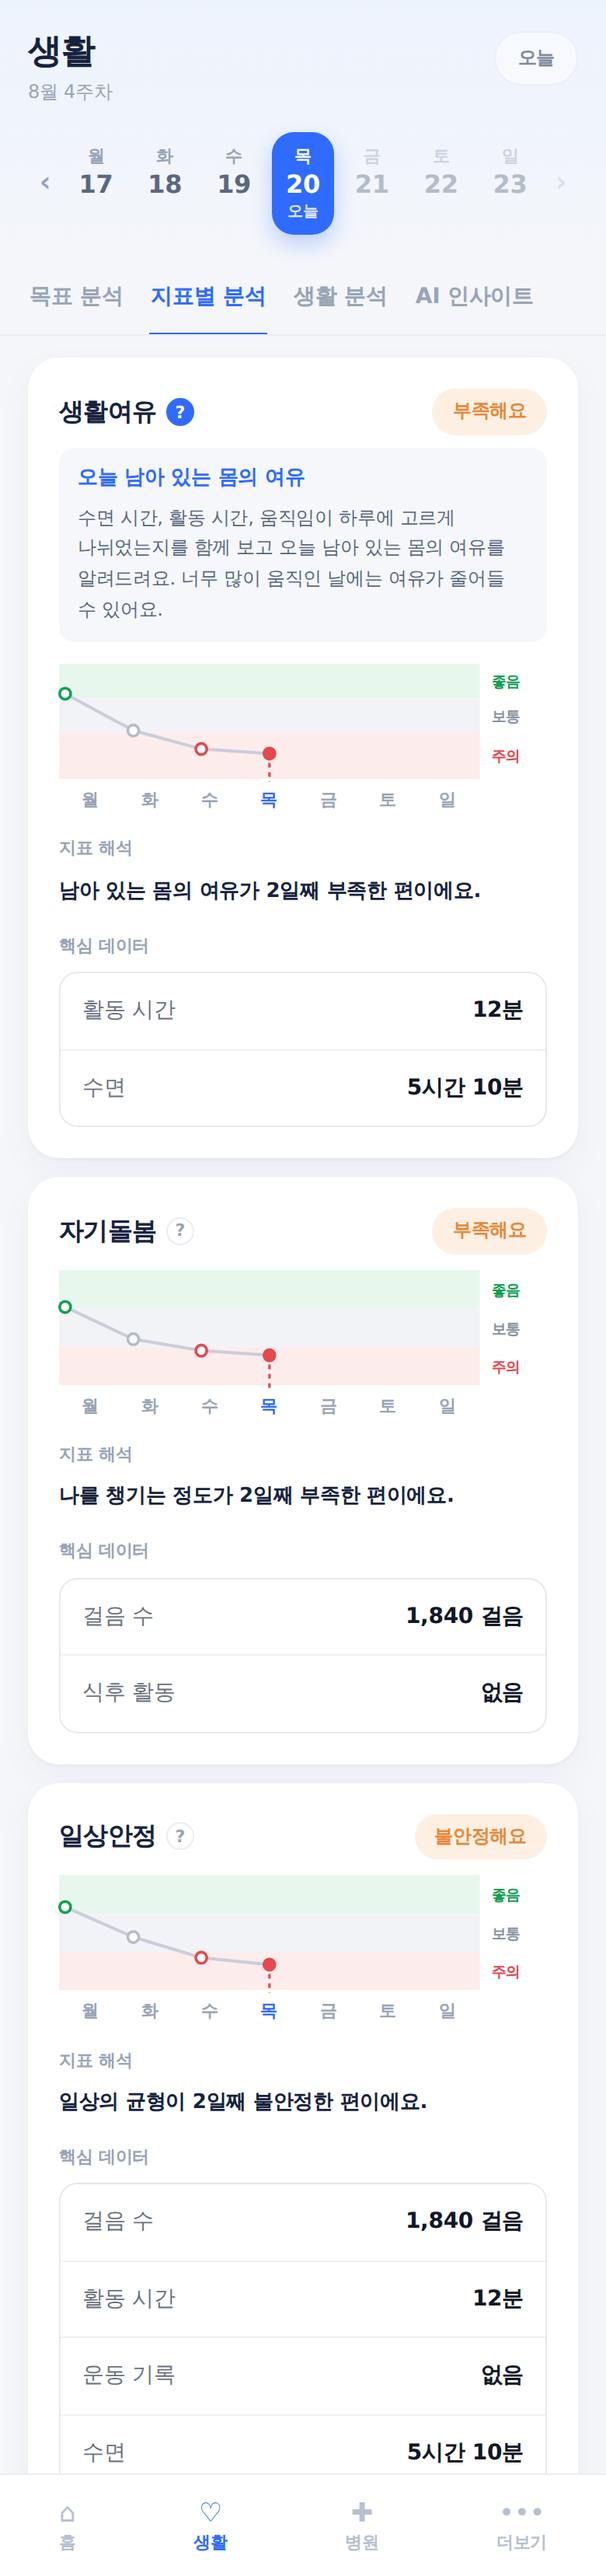
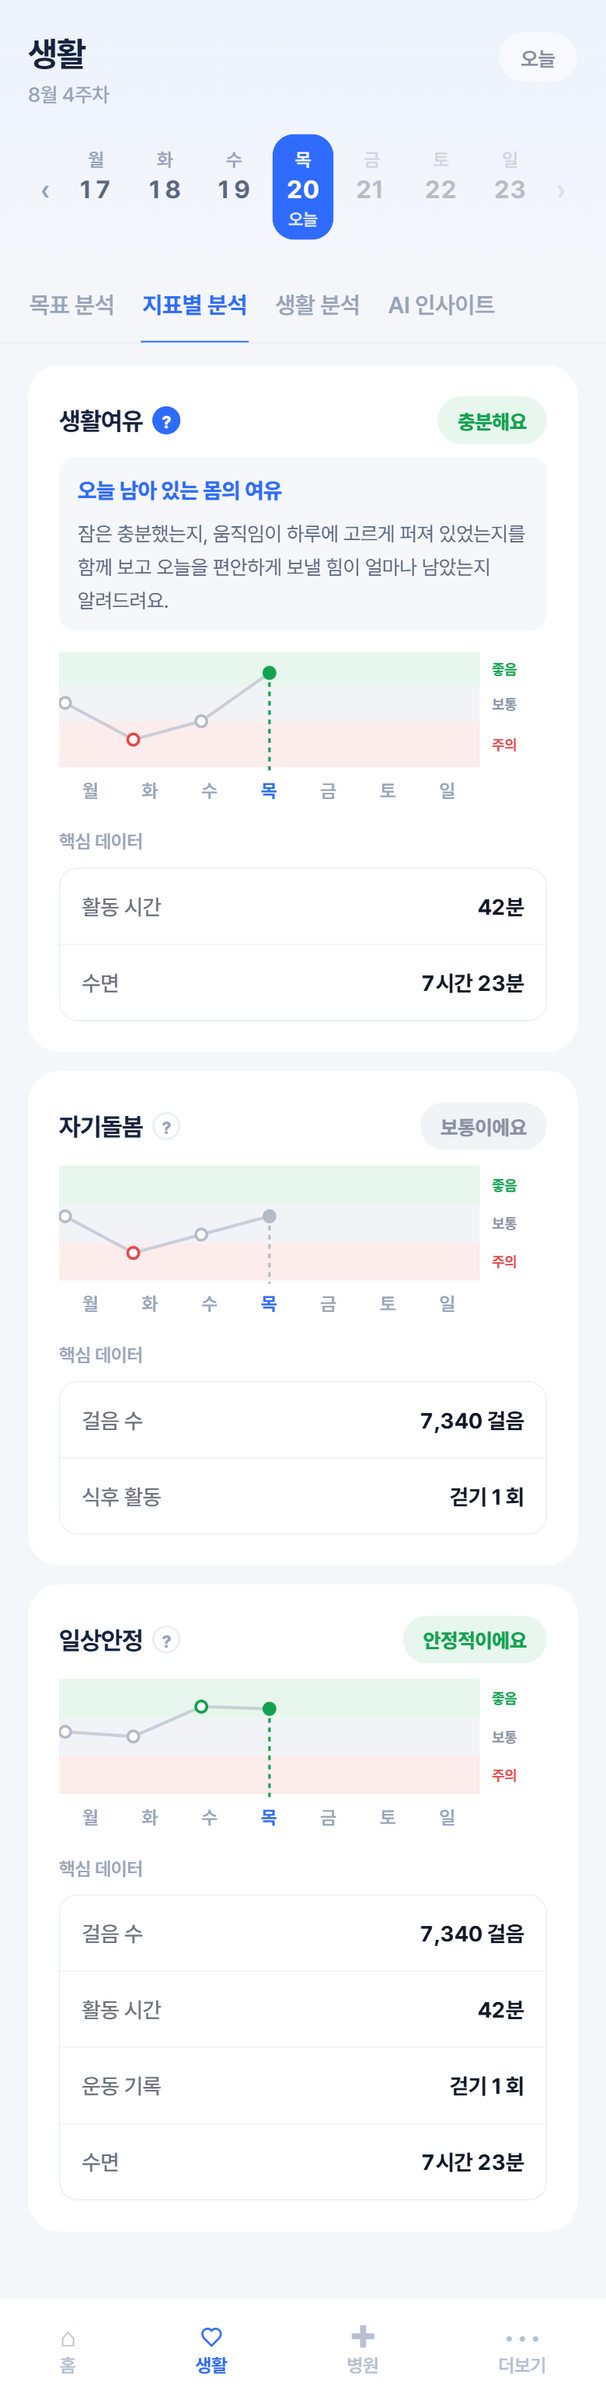
지표별 분석 화면설계서: 지표 해석 삭제, 예시 화면 재캡처, 해석 문장 규칙 메뉴 제거

diff --git a/wip-metric.html b/wip-metric.html
@@ -573,7 +573,7 @@ pre.json .k{color:#8AB4FF}pre.json .s{color:#FFD58A}pre.json .n{color:#9EF0C4}
 <div class="page">
   <div class="top">
     <h1>생활 탭 · 지표별 분석 화면 설계서</h1>
-    <p>세 지표의 주간 흐름 · 해석 · 핵심 데이터 화면의 동작과 표시 정보 · 왼쪽 캡처는 스크롤 가능 · 데이터는 가상</p>
+    <p>세 지표의 주간 흐름 · 핵심 데이터 화면의 동작과 표시 정보 · 왼쪽 캡처는 스크롤 가능 · 데이터는 가상</p>
   </div>
   <div class="controls">
     <div class="ctl" id="jump"></div>
@@ -596,7 +596,6 @@ const COMMON_INFO = [
   ["지표명","고정",["생활여유 · 자기돌봄 · 일상안정","3개 카드, 순서 고정"]],
   ["구간 배지","지표 구간 판정",["생활여유: 충분해요 · 보통이에요 · 부족해요","자기돌봄: 잘하고 있어요 · 보통이에요 · 부족해요","일상안정: 안정적이에요 · 비슷해요 · 불안정해요","색: 좋음 초록 · 보통 회색 · 주의 주황"]],
   ["주간 그래프","요일별 구간",["월~일 7칸, 미래 요일은 비움","배경 띠(y축): 좋음 · 보통 · 주의","요일 점: 그날 구간 색의 빈 원","선택한 날: 채운 원 + 세로 점선"]],
-  ["지표 해석","선택한 날 vs 전날",["한 문장","제목 ‘지표 해석’ 고정"]],
   ["핵심 데이터","건강 데이터 연동값",["생활여유: 활동 시간 · 수면","자기돌봄: 걸음 수 · 식후 활동","일상안정: 걸음 수 · 활동 시간 · 운동 기록 · 수면","선택한 날의 값","건강 앱 원본 값만 표시 (활동 분산 · 활동 부담 · 수면 규칙성 같은 계산 값은 표시하지 않음)"]]
 ];
 const SIDE = {
@@ -607,24 +606,15 @@ const SIDE = {
       ["진입 경로","생활 탭 → 상단 탭 ‘지표별 분석’"],
       ["날짜 선택",["날짜 띠(월~일)에서 고른 날 기준으로 세 카드 다시 표시","오늘 이후 날짜는 선택 불가","‘오늘’ 버튼으로 복귀"]],
       ["주 이동",["날짜 띠 좌우 화살표로 지난 주 이동","지난 주는 읽기 전용"]],
-      ["카드 구성","지표명 + ‘?’ → 배지 → 주간 그래프 → 지표 해석 → 핵심 데이터"],
+      ["카드 구성","지표명 + ‘?’ → 배지 → 주간 그래프 → 핵심 데이터"],
       ["#","구간"],
       ["점수 표시",["숫자 점수 · 전일 대비 방향 · y축 눈금 없음","구간 3단계로만 전달"]],
       ["구간 경계",["생활여유: 40 미만 주의 · 40 이상 ~ 70 미만 보통 · 70 이상 좋음","자기돌봄 · 일상안정: 33 미만 주의 · 33 이상 ~ 66 미만 보통 · 66 이상 좋음","반올림 전 점수로 판정 · 그래프 배경 띠도 같은 경계"]],
       ["주의 지속 ‘낮음’ 기준",["생활여유 · 자기돌봄: 재료 점수 0.4 미만 (0.40은 낮지 않음)","생활여유 활동 부담: 활동 시간 240분 초과","일상안정: 변화값 −0.2 미만","주의 기간 모든 날 낮음일 때만 이유로 씀"]],
-      ["배지 · 해석 역할",["배지 = 선택한 날의 상태 (좋음 · 보통 · 주의)","해석 문장 = 전날 대비 구간 변화 또는 연속 일수","예: 58점 → 62점(둘 다 보통) → 배지 보통 · ‘2일째 … 보통이에요’","예: 38점 → 42점(주의 → 보통) → 배지 보통 · ‘활동량이 늘어나면서 … 나아지고 있어요’"]],
+      ["배지 역할",["배지 = 선택한 날의 상태 (좋음 · 보통 · 주의)","전날과 비교한 변화나 이유 문장은 두지 않는다"]],
       ["판정 주체",["지표 엔진이 구간을 내려줌","앱은 그대로 표시 (다시 계산하지 않음)"]],
       ["일상안정 ‘균형’ 뜻",["안정적 = 지난주보다 걸음 · 활동 · 운동이 유지되거나 늘어난 상태","불안정 = 지난주보다 줄어든 상태","생활이 매일 일정한지를 뜻하지 않음"]],
-      ["비교 기준",["생활여유 · 자기돌봄: 모든 사용자 같은 기준으로 계산","일상안정: 최근 7일 vs 그 전 7일 (50점 = 변화 없음)"]],
-      ["#","지표 해석"],
-      ["바뀐 날",["구간이 전날과 다르면 ‘{이유} {변화}.’","예: 수면 시간이 늘어나면서 몸의 여유가 나아지고 있어요."]],
-      ["이어진 날",["2일 이상 ‘N일째 ~’","주의 3일 이상이면 이유 추가","예: 수면이 짧은 날이 3일째 이어지면서 남아 있는 몸의 여유가 부족한 편이에요."]],
-      ["이유",["점수에 준 영향이 가장 큰 항목 1개 (2점 미만이면 생략)","생활여유: 활동 시간 · 수면 · 활동 분산 · 활동 부담","자기돌봄: 걸음 수 · 식후 활동 · 공백 후 움직임 · 활동 분산","일상안정: 걸음 수 · 활동 시간 · 운동 시간 · 행동 완료 · 걸음 발생일 · 수면 규칙성 (최근 7일 vs 직전 7일)"]],
-      ["이유 계산",["재료별 영향(점) = 선택일 기여 점수 − 전날 기여 점수","기여 점수 = 근거 상한 × 실제 적용 가중치(없는 재료 빼고 재조정) × 재료 점수 × 100","선택일 산출에 쓰이지 않은 재료는 이유 후보에서 제외","생활여유: 활동 분산 = 분산 몫 + 낮은 부담의 몰림 절반 · 활동 부담 = 낮은 부담의 240분 초과 절반","수면 없는 날은 가중치 재조정 + 상한 0.855 반영","재료 점수 = 산식의 0~1 값 (엔진이 계산 중 가진 값을 그대로 사용)","내려간 날은 가장 큰 마이너스, 올라간 날은 가장 큰 플러스 재료","예: 수면 −12.5점 · 활동 시간 −2점 → ‘수면 시간이 줄어들면서 …’"]],
-      ["기준일",["날짜 띠에서 고른 날 (배지 · 점선 · 핵심 데이터와 같은 날)","전날 기록 없으면 상태 문구만"]],
-      ["갱신 · 미표시",["저장하지 않음, 값이 바뀌면 다시 만듦","늦게 도착하거나 수정된 기록이 있으면 그 날짜부터 오늘까지 구간 · 이유 · N일째 다시 계산 (지난 주 화면 포함)","관찰 중 · 미연동 · 계산 실패 시 미표시"]],
-      ["모름 기록",["확인되지 않은 행동 기회는 완료 · 미완료로 치지 않고 제외","완료율 = 완료 ÷ (완료 + 미완료)","기회가 모두 모름인 날은 식후 활동을 이유 후보에서 제외"]],
-      ["상세 규칙","‘지표 해석 문장 규칙’ 문서 참고"]]},
+      ["비교 기준",["생활여유 · 자기돌봄: 모든 사용자 같은 기준으로 계산","일상안정: 최근 7일 vs 그 전 7일 (50점 = 변화 없음)"]],]},
   info:{id:"LIFE-002", title:"지표 설명 펼침", img:()=>"info",
     desc:"지표명 옆 ‘?’를 누르면 지표 정의가 펼쳐지는 상태.",
     info:[["한 줄 정의","고정 문구",["생활여유: ‘오늘 남아 있는 몸의 여유’","자기돌봄: ‘오늘 나를 챙긴 정도’","일상안정: ‘지난주와 비교한 일상의 균형’"]],["설명 · 생활여유","고정 문구","‘수면 시간, 활동 시간, 움직임이 하루에 고르게 나뉘었는지를 함께 보고 오늘 남아 있는 몸의 여유를 알려드려요. 너무 많이 움직인 날에는 여유가 줄어들 수 있어요.’"],["설명 · 자기돌봄","고정 문구","‘하루 걸음 수와 식사 뒤 가볍게 움직였는지를 함께 보고 오늘 나를 얼마나 챙겼는지 알려드려요.’"],["설명 · 일상안정","고정 문구","‘최근 7일의 걸음 수 · 활동 시간 · 운동 기록과 수면 규칙성을 그 전 7일과 비교해, 일상의 균형이 잘 잡혀 있는지 알려드려요.’"]],
@@ -646,7 +636,7 @@ const SIDE = {
   lastweek:{id:"LIFE-002", title:"지난 주 (읽기 전용)", img:()=>"lastweek",
     desc:"지난 주로 이동하면 그 주 일요일 기준으로 보여주는 상태.",
     info:[["기준일","주 정보","그 주 일요일 (그래프 점선도 일요일)"]].concat(COMMON_INFO.slice(1)),
-    spec:[["기준",["그 주 일요일","제목 ‘지표 해석’, 문장은 ‘전날’ 기준"]],
+    spec:[["기준",["그 주 일요일"]],
       ["변경",["평소엔 다시 계산하지 않음","그 주 기록이 늦게 도착하거나 수정되면 이번 주와 같은 기준으로 다시 계산","별도 읽기 전용 안내는 표시하지 않음"]],
       ["기록 없음","‘아직 상세 기록이 준비되지 않았어요. \"이번 주\"로 돌아가 기록을 확인해보세요.’"]]}
 };

diff --git a/index.html b/index.html
@@ -77,7 +77,6 @@ dialog .err{color:#b91c1c;font-size:12px;margin-top:8px;min-height:1em}
  <a class="admin-only" href="#diet-screen" data-src="diet-screen-spec.html">🚧 식이 질문·목표 화면설계서</a>
  <a class="admin-only" href="#wip-clinic" data-src="wip-clinic-codef.html">🚧 진료정보 예시화면 (CODEF)</a>
  <a class="admin-only" href="#wip-metric" data-src="wip-metric.html">🚧 지표별 분석 화면설계서</a>
- <a class="admin-only" href="#wip-metric-rules" data-src="wip-metric-rules.html">🚧 지표 해석 문장 규칙</a>
  <a class="admin-only" href="#wip-diet-demo" data-src="wip-diet-demo.html">🚧 식이 시연 시나리오</a>
  <div class="tools">
   <span class="who" id="who"></span>
